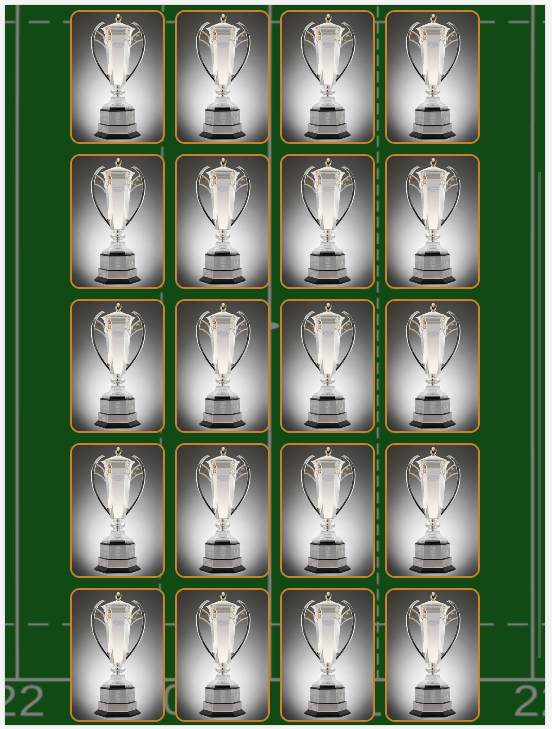
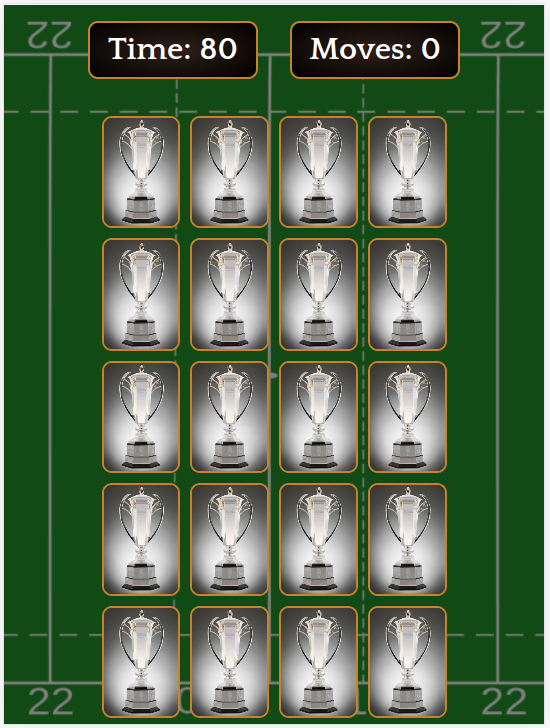
legend game page responsivesness images added to README.md

diff --git a/assets/css/style.css b/assets/css/style.css
@@ -397,11 +397,25 @@
     width: 450px;
     height: 730px;
     }
+    .game-card.card-pro {
+    width: calc(25% - 10px);
+    height: calc(20% - 10px);
+    }
     .game-container.container-leg {
     width: 450px;
     height: 890px;
     }
+}
 
+@media screen and (max-width: 540px) {
+    .game-container.container-pro {
+    width: 385px;
+    height: 620px;
+    }
+    .game-container.container-leg {
+    width: 350px;
+    height: 695px;
+    }
 }
 
 @media screen and (max-width: 480px) {
@@ -412,10 +426,6 @@
     .game-container.container-pro {
     width: 350px;
     height: 570px;
-    }
-    .game-container.container-leg {
-    width: 350px;
-    height: 695px;
     }
     #sound-effects {
     width: 30px;

diff --git a/README.md b/README.md
@@ -252,6 +252,20 @@ I have used Google Developer tools to simulate the following device sizes:
 - Acer Chromebook: [Landscape only]()
 - LG Desktop Monitor: [Landscape only](documentation/testing/responsiveness/pro/pr-desktop.png)
 
+#### Legend Game Page
+- Galaxy Fold: [Portrait](documentation/testing/responsiveness/legend/le-galaxy-fold-p.png), [Landscape](documentation/testing/responsiveness/legend/le-galaxy-fold-l.png)
+- Galaxy S5: [Portrait](documentation/testing/responsiveness/legend/le-galaxys5-p.png), [Landscape](documentation/testing/responsiveness/legend/le-galaxys5-l.png)
+- Iphone 4: [Portrait](documentation/testing/responsiveness/legend/le-iphone4-p.png), [Landscape](documentation/testing/responsiveness/legend/le-iphone4-l.png)
+- Iphone 5/SE: [Portrait](documentation/testing/responsiveness/legend/le-iphone5-p.png), [Landscape](documentation/testing/responsiveness/legend/le-iphone5-l.png)
+- Iphone 6/7/8: [Portrait](documentation/testing/responsiveness/legend/le-iphone6-p.png), [Landscape](documentation/testing/responsiveness/legend/le-iphone6-l.png)
+- Iphone X: [Portrait](documentation/testing/responsiveness/legend/le-iphonex-p.png), [Landscape](documentation/testing/responsiveness/legend/le-iphonex-l.png)
+- Ipad: [Portrait](documentation/testing/responsiveness/legend/le-ipad-p.png), [Landscape](documentation/testing/responsiveness/legend/le-ipad-l.png)
+- Moto G4: [Portrait](documentation/testing/responsiveness/legend/le-motog4-p.png), [Landscape](documentation/testing/responsiveness/legend/le-motog4-l.png)
+- Pixel 2: [Portrait](documentation/testing/responsiveness/legend/le-pixel2-p.png), [Landscape](documentation/testing/responsiveness/legend/le-pixel2-l.png)
+- Surface Duo: [Portrait](documentation/testing/responsiveness/legend/le-surface-p.png), [Landscape](documentation/testing/responsiveness/legend/le-surface-l.png)
+- Acer Chromebook: [Landscape only]()
+- LG Desktop Monitor: [Landscape only](documentation/testing/responsiveness/legend/le-desktop.png)
+
 ## Solved Bugs
 1. I had an issue when it came to adding difficulty levels to the game, and changing the value
 of variables depending on what game type was selected. One solution would have been to create different
